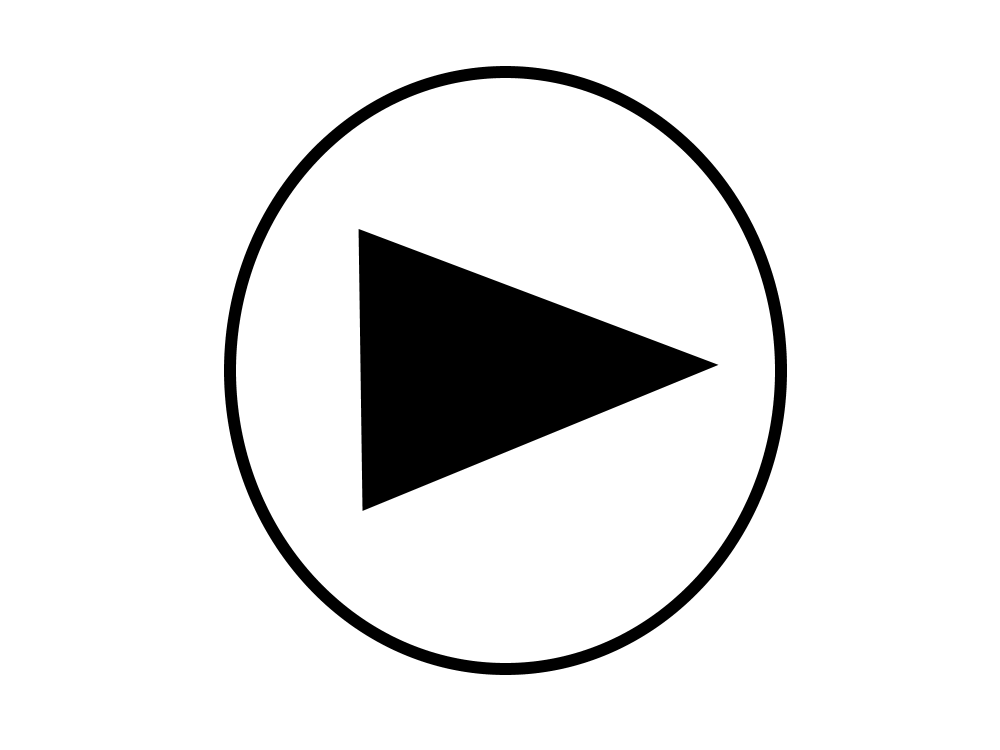
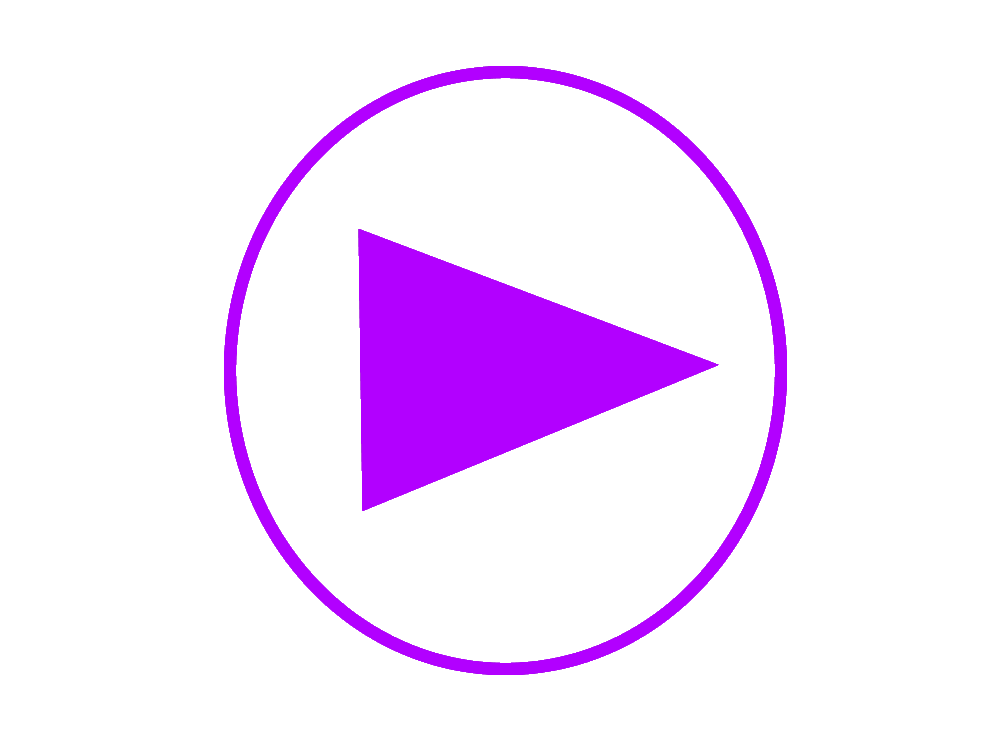
WIP: implementing prompts/answers in Wack An Answer. Answers being drawn, next step is making them oscillate. Changed the audio button color to be visible against black backgrounds

Changed region(s): [[0.341, 0.3067, 0.713, 0.6747], [0.31, 0.0613, 0.806, 0.7973], [0.217, 0.2147, 0.682, 0.92]]

diff --git a/javascript/promptsAndAnswers/PromptAndAnswerManager.js b/javascript/promptsAndAnswers/PromptAndAnswerManager.js
@@ -475,10 +475,73 @@ function PromptsAndAnswersManager()
         randomGridIndex2 = getRandomIntInclusive(0,8);
       }
 
-      // this.correctTargetPromptAndAnswerPairing.xCoordinate
-      // gameClassManager.currentGame.background.grid[randomGridIndex1].answer = this.correctTargetPromptAndAnswerPairing;
-      // gameClassManager.currentGame.background.grid[randomGridIndex1].answer = this.incorrectTargetPromptAndAnswerPairing;
+      let randomOfFourDirections1 = undefined;
+      let correctAnswerXOffSet = undefined;
+      let correctAnswerYOffSet = undefined;
 
+      let randomDirectionNumber = Math.random();
+      if (randomDirectionNumber >= 0.75)
+      {
+        randomOfFourDirections1 = 'left';
+        correctAnswerXOffSet = -75;
+        correctAnswerYOffSet = 0;
+      }
+      else if (randomDirectionNumber >= 0.5)
+      {
+        randomOfFourDirections1 = 'down';
+        correctAnswerYOffSet = 75;
+        correctAnswerXOffSet = 0;
+      }
+      else if (randomDirectionNumber >= 0.25)
+      {
+        randomOfFourDirections1 = 'right';
+        correctAnswerXOffSet = 75;
+        correctAnswerYOffSet = 0;
+      }
+      else if (randomDirectionNumber < 0.25)
+      {
+        randomOfFourDirections1 = 'up';
+        correctAnswerYOffSet = -75;
+        correctAnswerXOffSet = 0;
+      }
+
+      let randomOfFourDirections2 = undefined;
+      let incorrectAnswerXOffSet = undefined;
+      let incorrectAnswerYOffSet = undefined;
+      randomDirectionNumber = Math.random();
+      if (randomDirectionNumber >= 0.75)
+      {
+        randomOfFourDirections2 = 'left';
+        incorrectAnswerXOffSet = -75;
+        incorrectAnswerYOffSet = 0;
+      }
+      else if (randomDirectionNumber >= 0.5)
+      {
+        randomOfFourDirections2 = 'down';
+        incorrectAnswerYOffSet = 75;
+        incorrectAnswerXOffSet = 0;
+      }
+      else if (randomDirectionNumber >= 0.25)
+      {
+        randomOfFourDirections2 = 'right';
+        incorrectAnswerXOffSet = 75;
+        incorrectAnswerYOffSet = 0;
+      }
+      else if (randomDirectionNumber < 0.25)
+      {
+        randomOfFourDirections2 = 'up';
+        incorrectAnswerYOffSet = -75;
+        incorrectAnswerXOffSet = 0;
+      }
+
+      gameClassManager.currentGame.oscillationVelocity1 = getRandomArbitrary(0.1,0.3);
+      gameClassManager.currentGame.oscillationVelocity2 = getRandomArbitrary(0.1,0.3);
+
+      this.correctTargetPromptAndAnswerPairing.xCoordinate = gameClassManager.currentGame.background.grid[randomGridIndex1].x + correctAnswerXOffSet;
+      this.correctTargetPromptAndAnswerPairing.yCoordinate = gameClassManager.currentGame.background.grid[randomGridIndex1].y + correctAnswerYOffSet;
+
+      this.incorrectTargetPromptAndAnswerPairing.xCoordinate = gameClassManager.currentGame.background.grid[randomGridIndex2].x + incorrectAnswerXOffSet;
+      this.incorrectTargetPromptAndAnswerPairing.yCoordinate = gameClassManager.currentGame.background.grid[randomGridIndex2].y + incorrectAnswerYOffSet;
     }
   }
 

diff --git a/javascript/specificGames/whackAnAnswer/whackAnAnswerSpecifics.js b/javascript/specificGames/whackAnAnswer/whackAnAnswerSpecifics.js
@@ -4,6 +4,15 @@ function whackAnAnswerGameClass()
 
     this.name = 'whack an answer game';
 
+    // this.imageWidth = 75;
+    // this.imageHeight = 75;
+    //
+    // this.audioImageWidth = 75;
+    // this.audioImageHeight = 75;
+
+    this.textAnswerFontSize = 30;
+    this.textAnswerFontStyle = this.textAnswerFontSize + 'px Helvetica';
+
     this.titleScreenData =
      [
       {name: "Whack",fontSize: 25, spacing: 12, x: 235, y: 550},
@@ -31,6 +40,8 @@ function whackAnAnswerGameClass()
      {
        this.background.draw();
        this.playerCharacter.draw();
+
+       promptersManager.drawPromptsWhenAppropriate();
      }
 
      this.update = function()
@@ -41,6 +52,16 @@ function whackAnAnswerGameClass()
      this.handleClick = function()
      {
        this.playerCharacter.handleMouseClick();
+     }
+
+     this.answerVelocity = 2;
+     this.oscillationVelocity1 = undefined;
+     this.oscillationVelocity2 = undefined;
+     this.radians = 0;
+     
+     this.moveAnswers = function()
+     {
+
      }
   }
 

diff --git a/javascript/specificGames/whackAnAnswer/whackBackground.js b/javascript/specificGames/whackAnAnswer/whackBackground.js
@@ -5,6 +5,7 @@ function WhackBackground()
     gameCanvasContext.fillStyle = 'orange';
     gameCanvasContext.fillRect(0,0, gameCanvas.width,gameCanvas.height);
     gameCanvasContext.drawImage(whackTableBeneathSurface, 0,0, gameCanvas.width,gameCanvas.height);
+    drawAnswersManager.draw();
     gameCanvasContext.drawImage(whackTableSurface, 0,0, gameCanvas.width,gameCanvas.height);
     this.drawGrid();
   }
@@ -59,7 +60,7 @@ function WhackTile(rowIndex,columnIndex)
   {
     if (this.answer !== undefined)
     {
-      
+
     }
   }
 }

diff --git a/javascript/commonFunctions.js b/javascript/commonFunctions.js
@@ -14,3 +14,7 @@ function getRandomElementFromArray(myArray){
   var randomIdx = getRandomIntInclusive(0, myArray.length - 1);
   return myArray[randomIdx];
 }
+
+function getRandomArbitrary(min, max) {
+  return Math.random() * (max - min) + min;
+}
